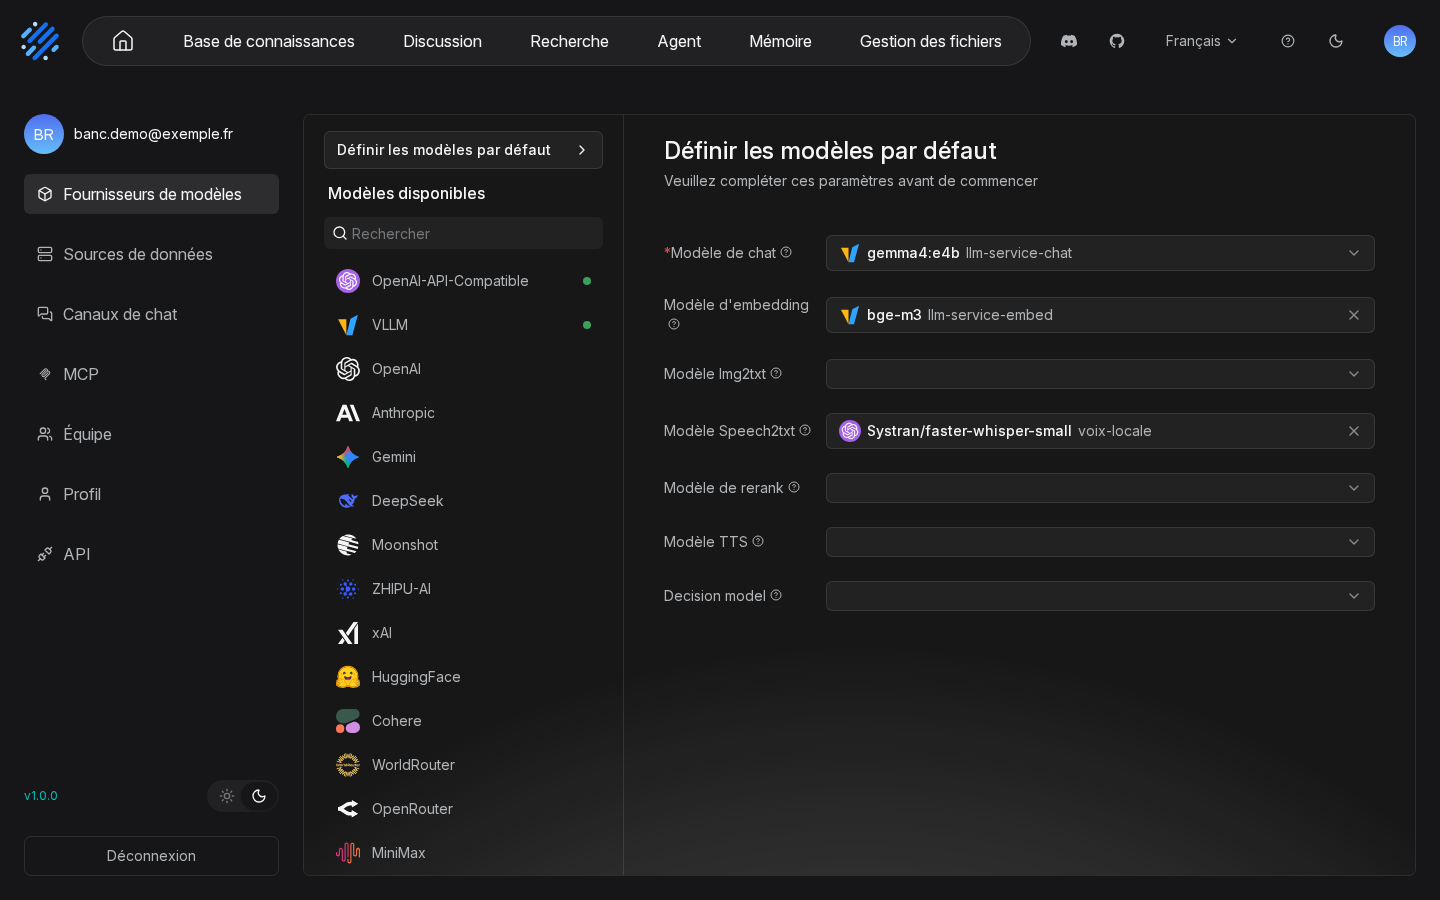
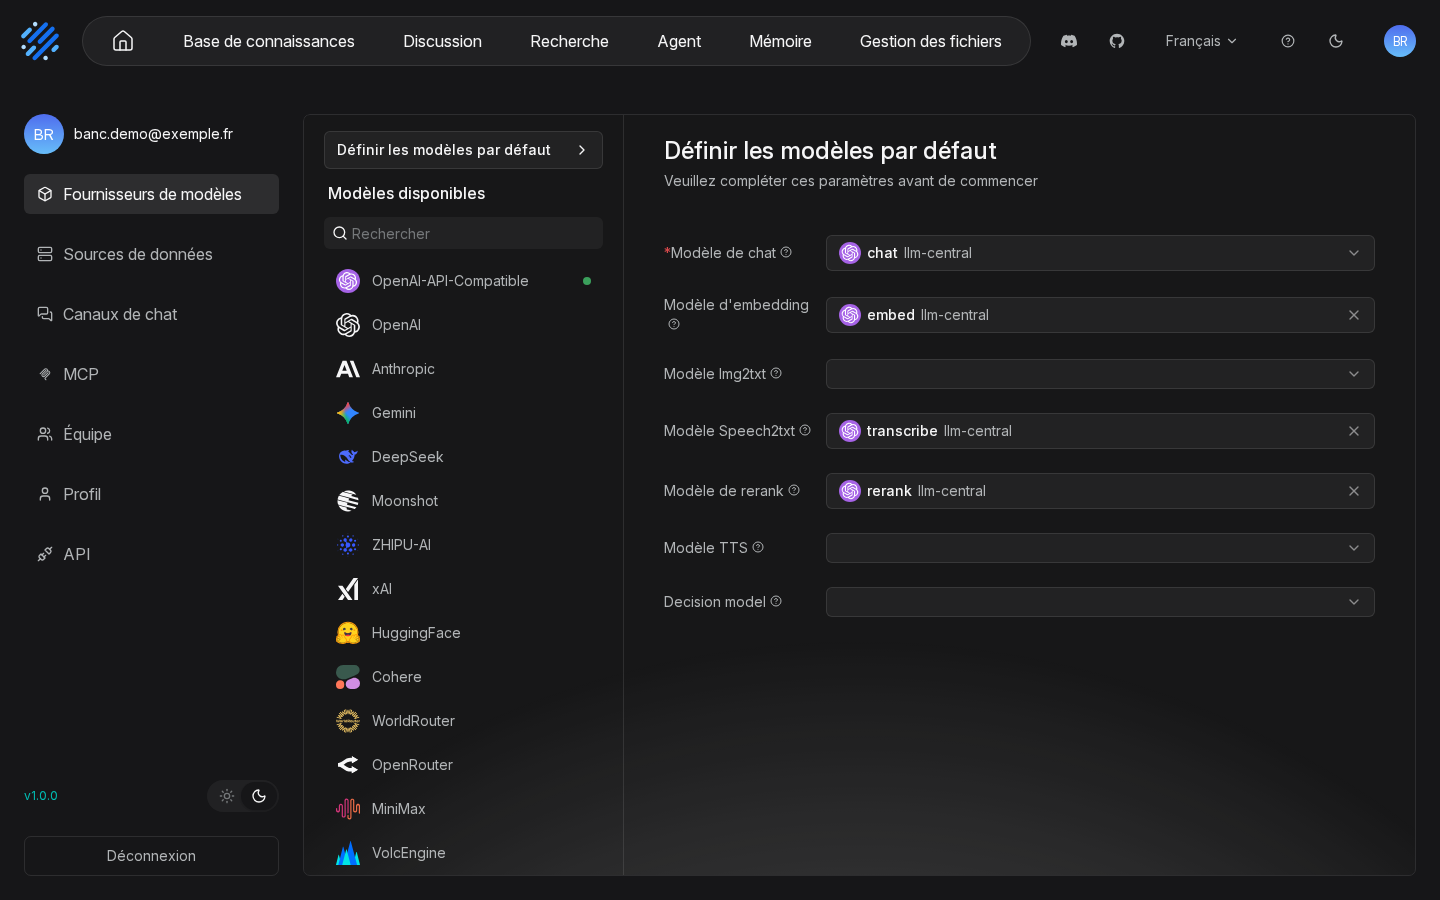
RAGFlow : carte de l'interface à jour (fournisseur OpenAI-API-Compatible, instance llm-central, reranker de l'assistant), captures du menu du compte refaites

diff --git a/docs/ragflow/annexes/carte-interface.md b/docs/ragflow/annexes/carte-interface.md
@@ -92,7 +92,7 @@ Les numéros renvoient aux chapitres de la partie 1 du manuel ; le [sommaire du 
 | Fenêtre « Intégrer dans la page web » | avion en papier | onglets « Embed Setup » (« Type d'intégration », « Thème », « Cacher l'avatar », « Paramètres régionaux », « Code d'intégration », « Ouvrir dans un nouvel onglet », « Discussion ID ») et « Widget Customization » (titre, sous-titre, pied de page, couleurs) | [07](../manuel/07-poser-des-questions-et-lire-les-sources.md) |
 | Pièce jointe | « Attach file » | fichier joint à la question (5 fichiers, 5 Mo chacun) ; ouvre une conversation nommée d'après le fichier | [07](../manuel/07-poser-des-questions-et-lire-les-sources.md) |
 | « Paramètres du modèle » | panneau, dépliant | « Liberté » (« Improviser », « Précis », « Équilibre », « Personnalisé »), « Température », « Top P », « Pénalité de présence », « Pénalité de fréquence », « Nombre max de tokens » (chacun avec interrupteur et curseur), « Thinking » (« System default », « Enabled », « Disabled ») | [08](../manuel/08-regler-un-assistant.md) |
-| « Paramètres avancés » | panneau, dépliant | « Afficher la citation », « Texte en parole », « Web search provider » (douze services), « Métadonnées » (« Désactivé », « Automatique », « Semi-automatique », « Manuel ») ; sous-partie « Naive » : « Réponse vide », « Analyse de mots-clés », « Prompt système », « Seuil de similarité », « Poids de similarité par mots-clés », « Rerank candidates », « Top N », « Modèle de réordonnancement », « Recherche inter-langues », « Optimisation multi-tours », « Variable » ; sous-partie « Agentic » : « Decision model », « Agentic template », « Reset to default » | [08](../manuel/08-regler-un-assistant.md), [08](../manuel/08-regler-un-assistant.md) |
+| « Paramètres avancés » | panneau, dépliant | « Afficher la citation », « Texte en parole », « Web search provider » (douze services), « Métadonnées » (« Désactivé », « Automatique », « Semi-automatique », « Manuel ») ; sous-partie « Naive » : « Réponse vide », « Analyse de mots-clés », « Prompt système », « Seuil de similarité », « Poids de similarité par mots-clés », « Rerank candidates », « Top N », « Modèle de réordonnancement » (liste des modèles de type « Rerank » ; `rerank` du service central), « Recherche inter-langues », « Optimisation multi-tours », « Variable » ; sous-partie « Agentic » : « Decision model », « Agentic template », « Reset to default » | [08](../manuel/08-regler-un-assistant.md) (étapes 7 à 14 ; reranker : étape 12) |
 
 ## Recherche
 
@@ -171,7 +171,7 @@ Les numéros renvoient aux chapitres de la partie 1 du manuel ; le [sommaire du 
 | Page ou menu | Chemin d'accès | Éléments (boutons, onglets, réglages) | Manuel qui le couvre |
 |---|---|---|---|
 | Menu du compte | avatar | adresse du compte, « Fournisseurs de modèles », « Sources de données », « Canaux de chat », « MCP », « Équipe », « Profil », « API », version « v1.0.0 », bascule soleil et lune, « Déconnexion » | [03](../manuel/03-premiers-pas.md) (repérage), [13](../manuel/13-comptes-equipe-et-cles.md) (page « Équipe » et « Déconnexion ») |
-| « Fournisseurs de modèles » | avatar, « Fournisseurs de modèles » | « Définir les modèles par défaut » (« Modèle de chat », « Modèle d'embedding », « Modèle Img2txt », « Modèle Speech2txt », « Modèle de rerank », « Modèle TTS », « Decision model ») ; « Modèles disponibles » avec « Rechercher » et une centaine de fournisseurs (point vert : configuré) ; par fournisseur : cartes d'instance (« Clé API », « URL de base », « Models », « Lister les modèles », « … », retirer ou ajouter un modèle, « Enregistrer », corbeille), « Add instance » | [03](../manuel/03-premiers-pas.md) |
+| « Fournisseurs de modèles » | avatar, « Fournisseurs de modèles » | « Définir les modèles par défaut » (« Modèle de chat », « Modèle d'embedding », « Modèle Img2txt », « Modèle Speech2txt », « Modèle de rerank », « Modèle TTS », « Decision model ») ; « Modèles disponibles » avec « Rechercher » et une centaine de fournisseurs (point vert : configuré ; sur la machine d'essai, « OpenAI-API-Compatible » seul, instance « llm-central » avec `chat`, `embed`, `rerank`, `transcribe`) ; par fournisseur : cartes d'instance (« Clé API », « URL de base », « Models », « Lister les modèles », « … », retirer ou ajouter un modèle, « Enregistrer », corbeille), « Add instance » | [03](../manuel/03-premiers-pas.md) (étapes 7 à 19 : déclaration, modèles par défaut dont « Modèle de rerank », suppression d'une instance) |
 | « Sources de données » | avatar, « Sources de données » | « Sources disponibles » avec « Ajouter » : Confluence, Notion, Google Drive, Feishu Wiki, Gmail, Google Cloud Storage, Oracle Storage, S3, R2, Jira, Box, Dropbox, Bitbucket, Azure DevOps, GitLab, GitHub, Moodle, Discord, Xquik, Zendesk, Zotero, WebDAV, Airtable, Asana, IMAP, Dingtalk AI Table, SeaFile, MySQL, PostgreSQL, BigQuery, REST API, RSS, Sitemap, OneDrive, Outlook, Salesforce, Azure Blob Storage, Microsoft Teams, Slack, SharePoint | [12](../manuel/12-sources-externes.md) |
 | Page d'une source de données | « Sources de données », roue dentée d'une source | champs de création (« Name », « URL du sitemap », « Filtre d'URL (regex) », « Suivre les liens PDF », « User-Agent », « Batch Size », « Synchroniser les fichiers supprimés »), « Refresh Freq », « Timeout Secs », « Test connection », « Enregistrer » (« Resume » après un échec), « Journal » (« Heure de démarrage », « Statut », « Ensemble de données », « Task Type », « Summary ») | [12](../manuel/12-sources-externes.md) |
 | « Canaux de chat » | avatar, « Canaux de chat » | « Canaux disponibles » avec « Ajouter » : Discord, DingTalk, Feishu / Lark, QQ Bot, Telegram, WeCom, WhatsApp ; fenêtre « Ajouter un bot Telegram » (« Name », « Bot Token », « Annuler », « Confirmer ») | [12](../manuel/12-sources-externes.md) (page décrite) ; branchement d'un bot : Non couvert, compte en ligne chez un tiers exigé |
